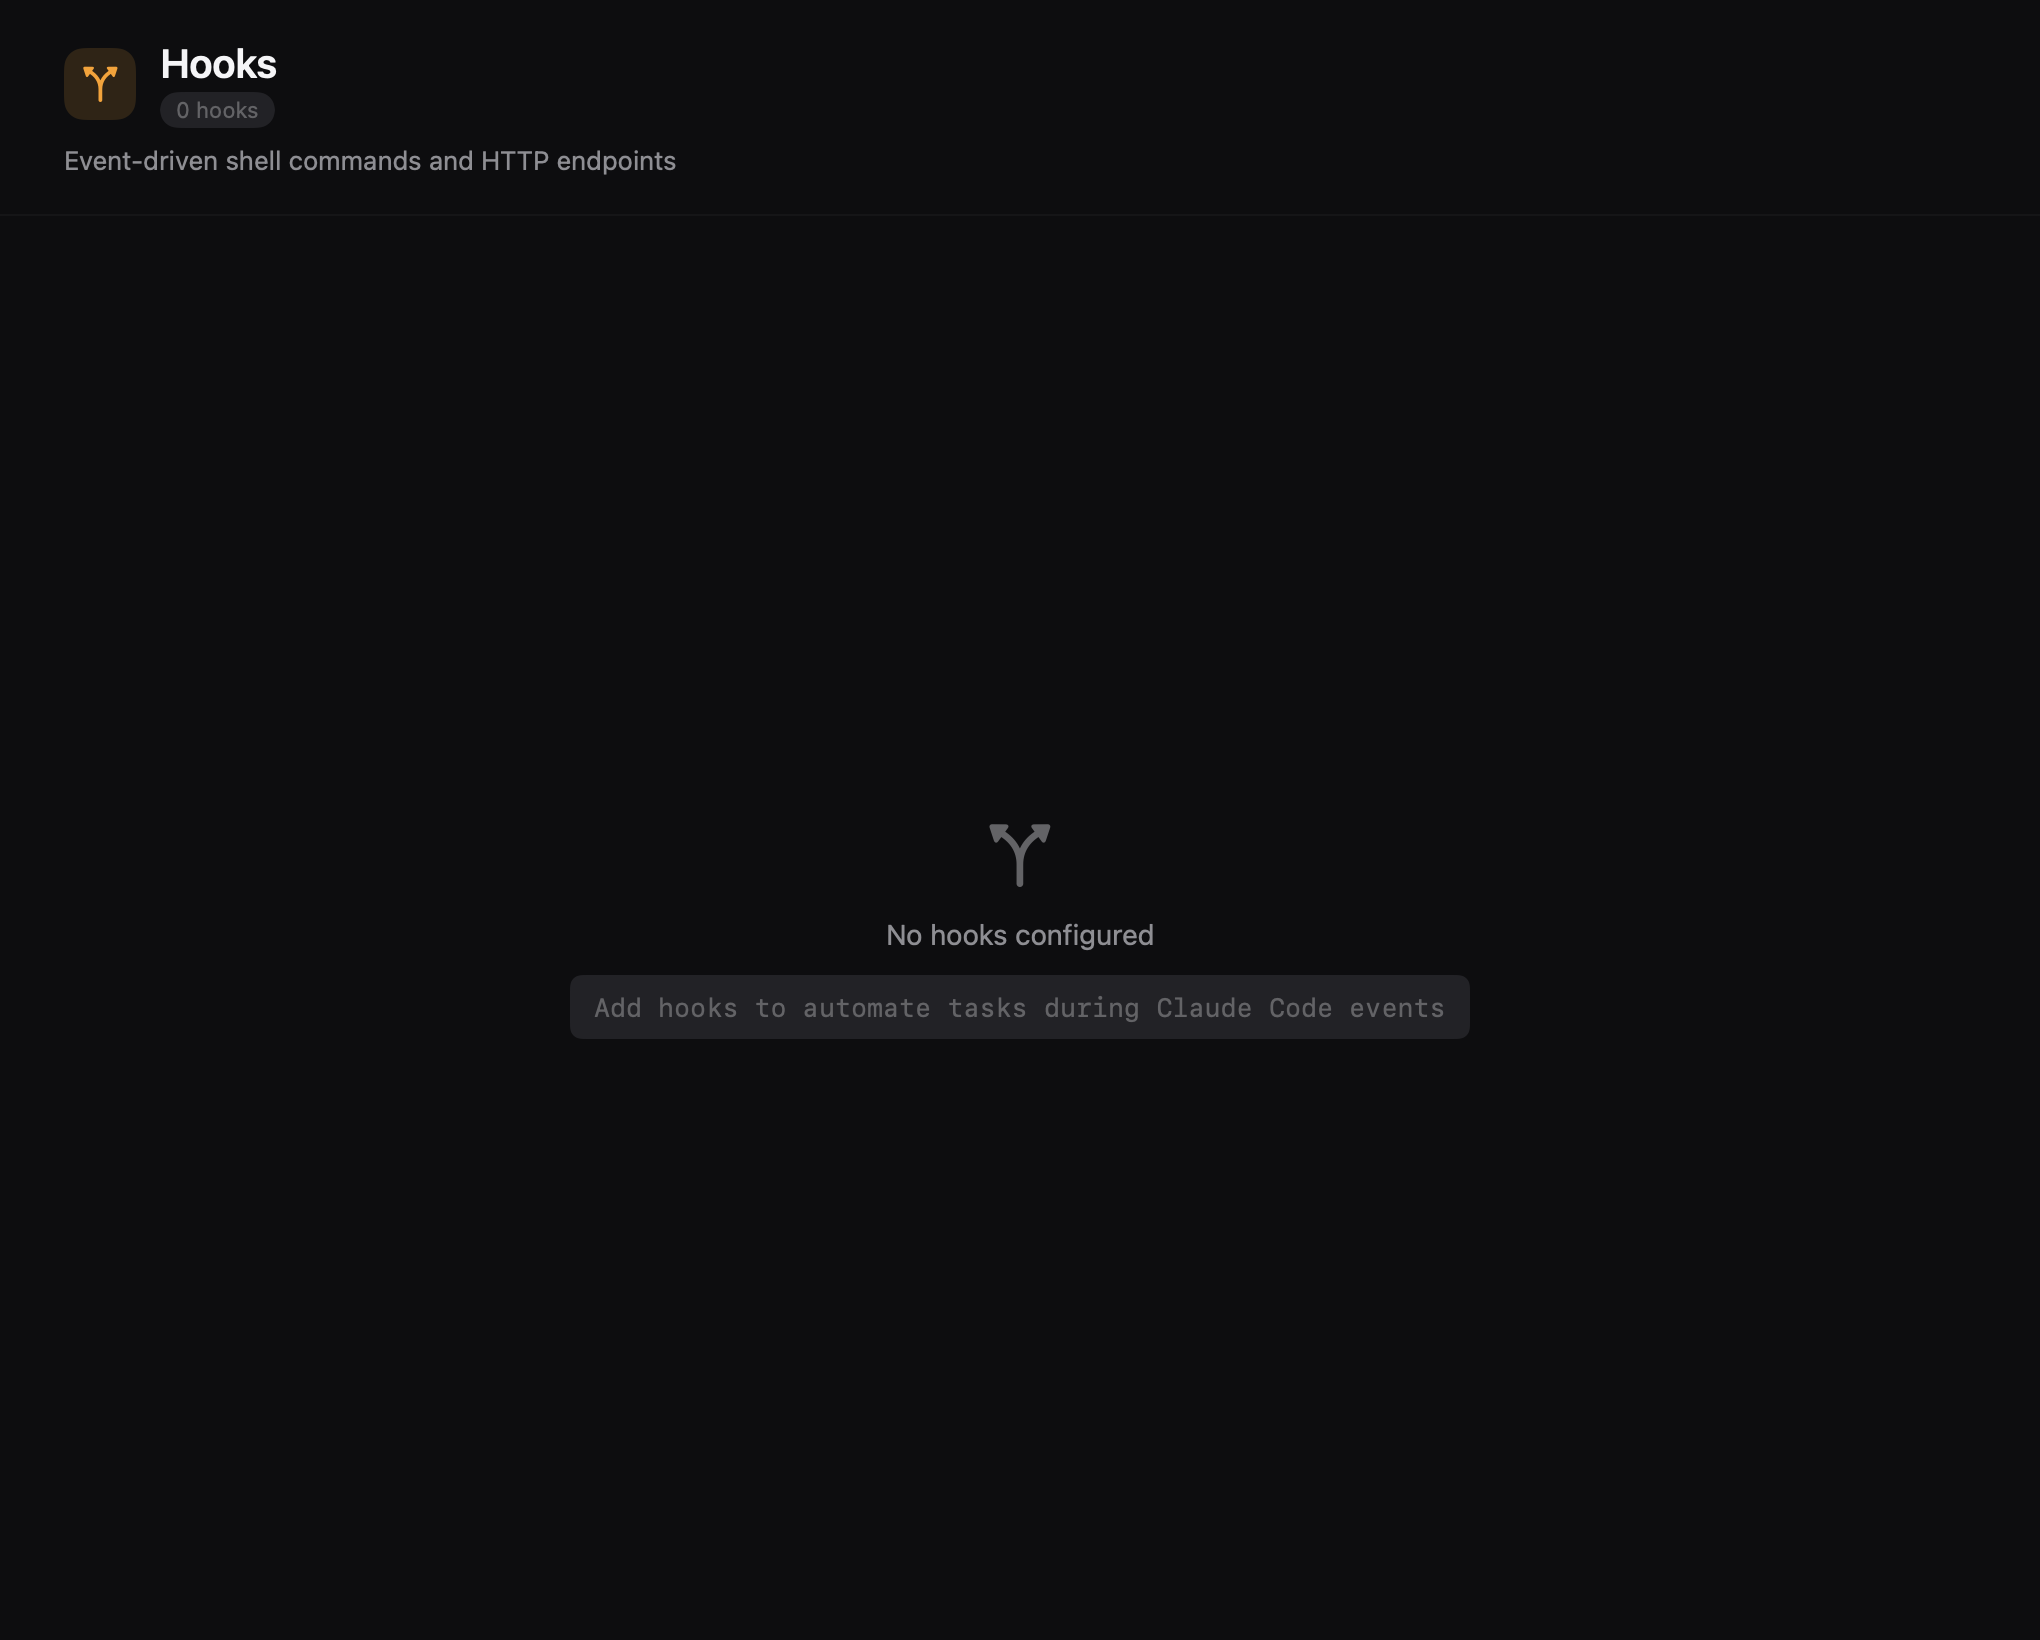
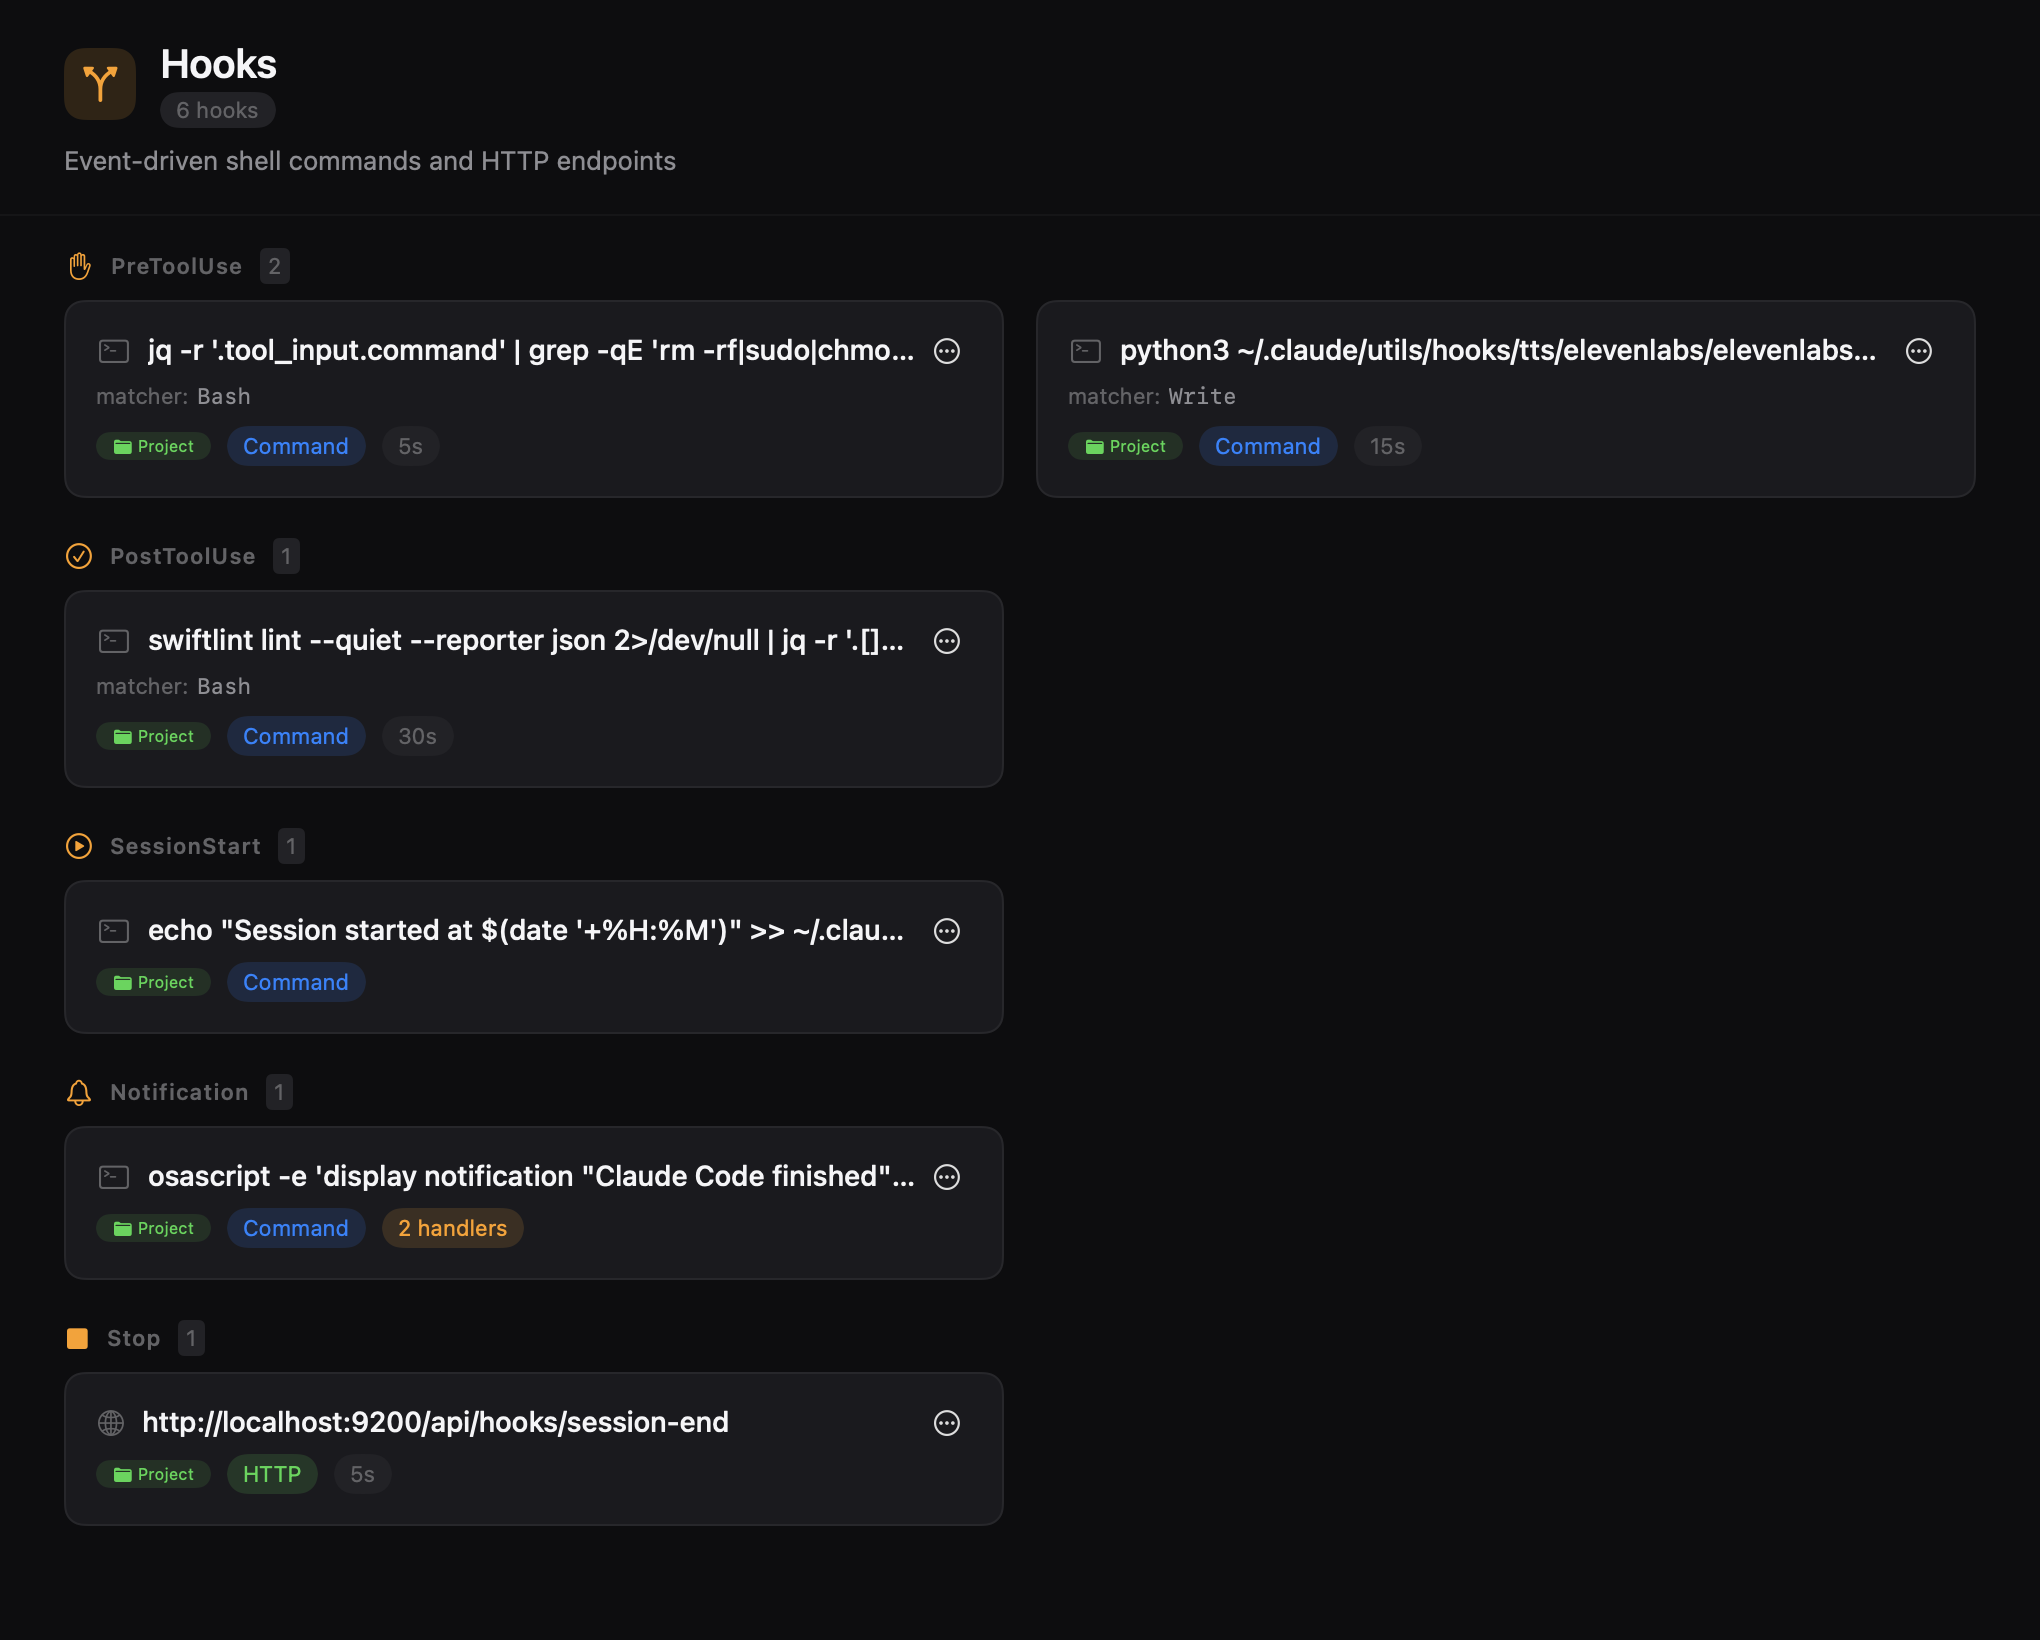
Update hooks screenshot with rich mock data (#49)

diff --git a/PoirotTests/Screenshots/ScreenshotTests_ConfigScreens.swift b/PoirotTests/Screenshots/ScreenshotTests_ConfigScreens.swift
@@ -104,9 +104,11 @@ struct ScreenshotTests_ConfigScreens {
 
     @Test
     func testHooksList() async throws {
+        let state = makeAppState(configProjectPath: "/Users/leonardocardoso/Dev/git/business/lumno")
         try await snapshotView(
             withEnvironment(
                 HooksListView(item: configItem(id: "hooks")),
+                state: state,
                 provider: provider
             ),
             size: ScreenshotSize.mainContent,